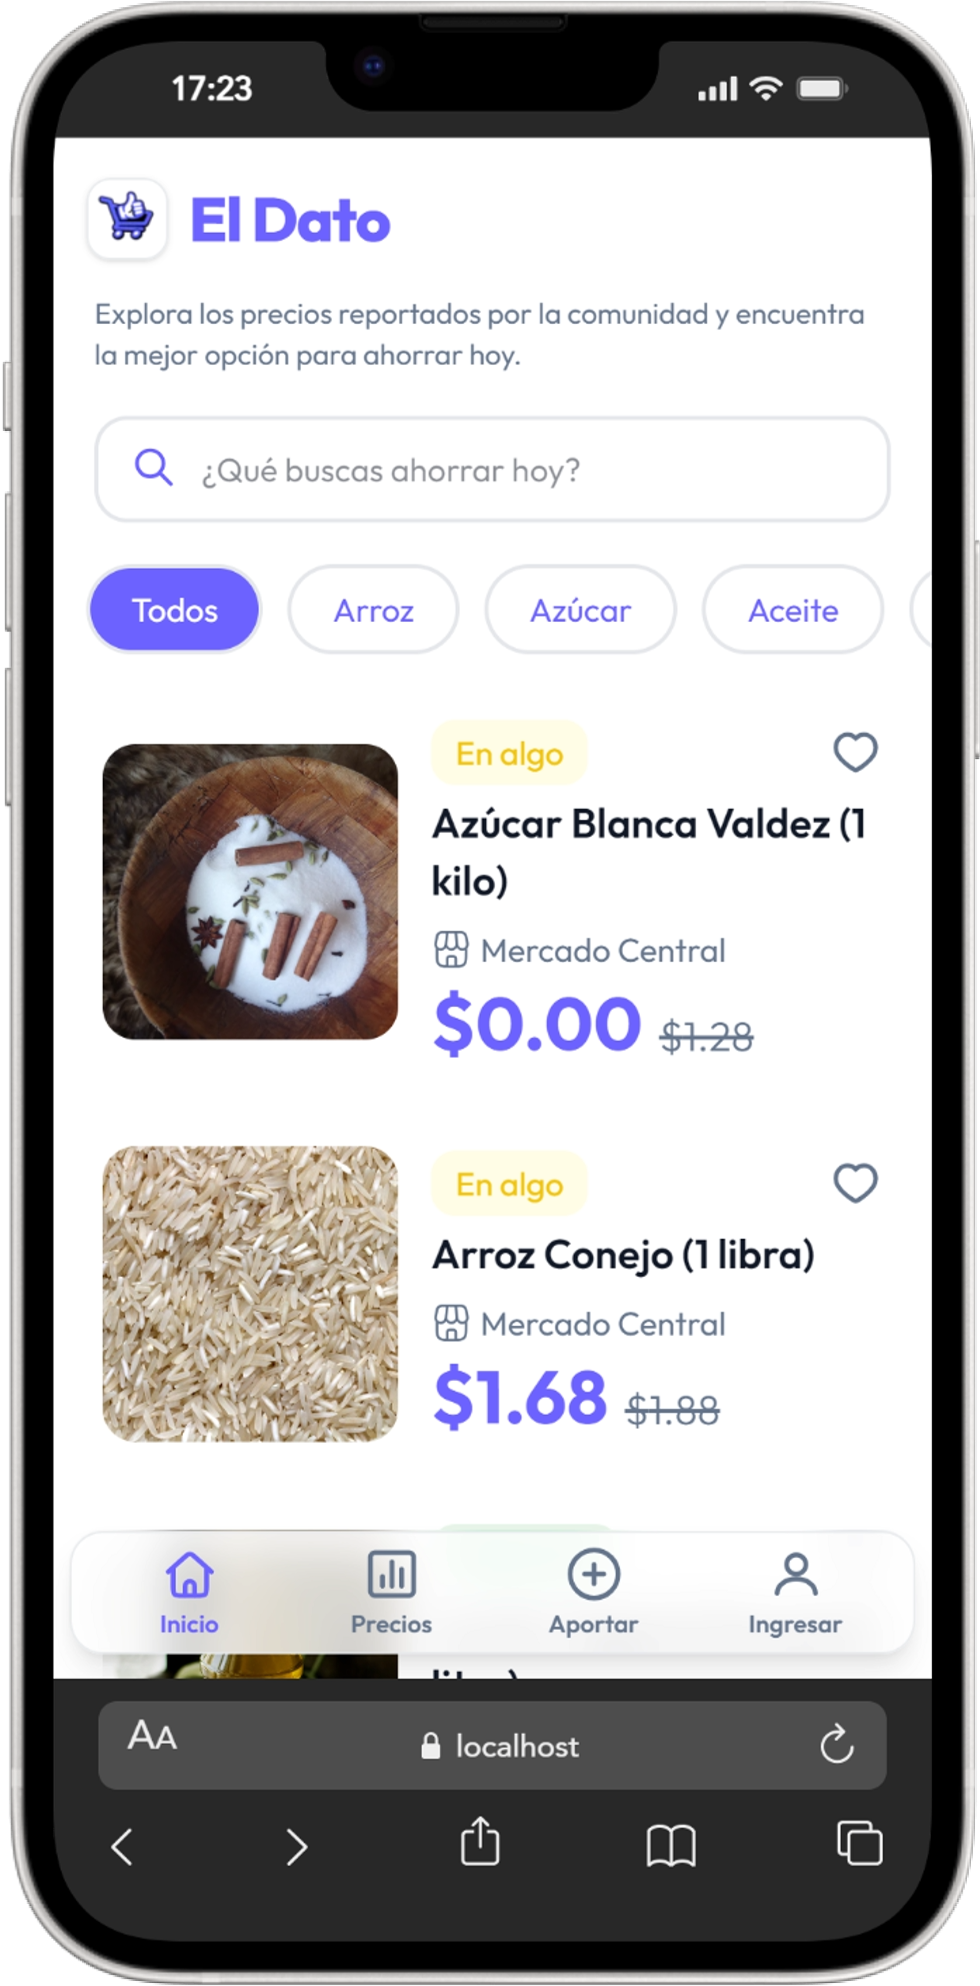
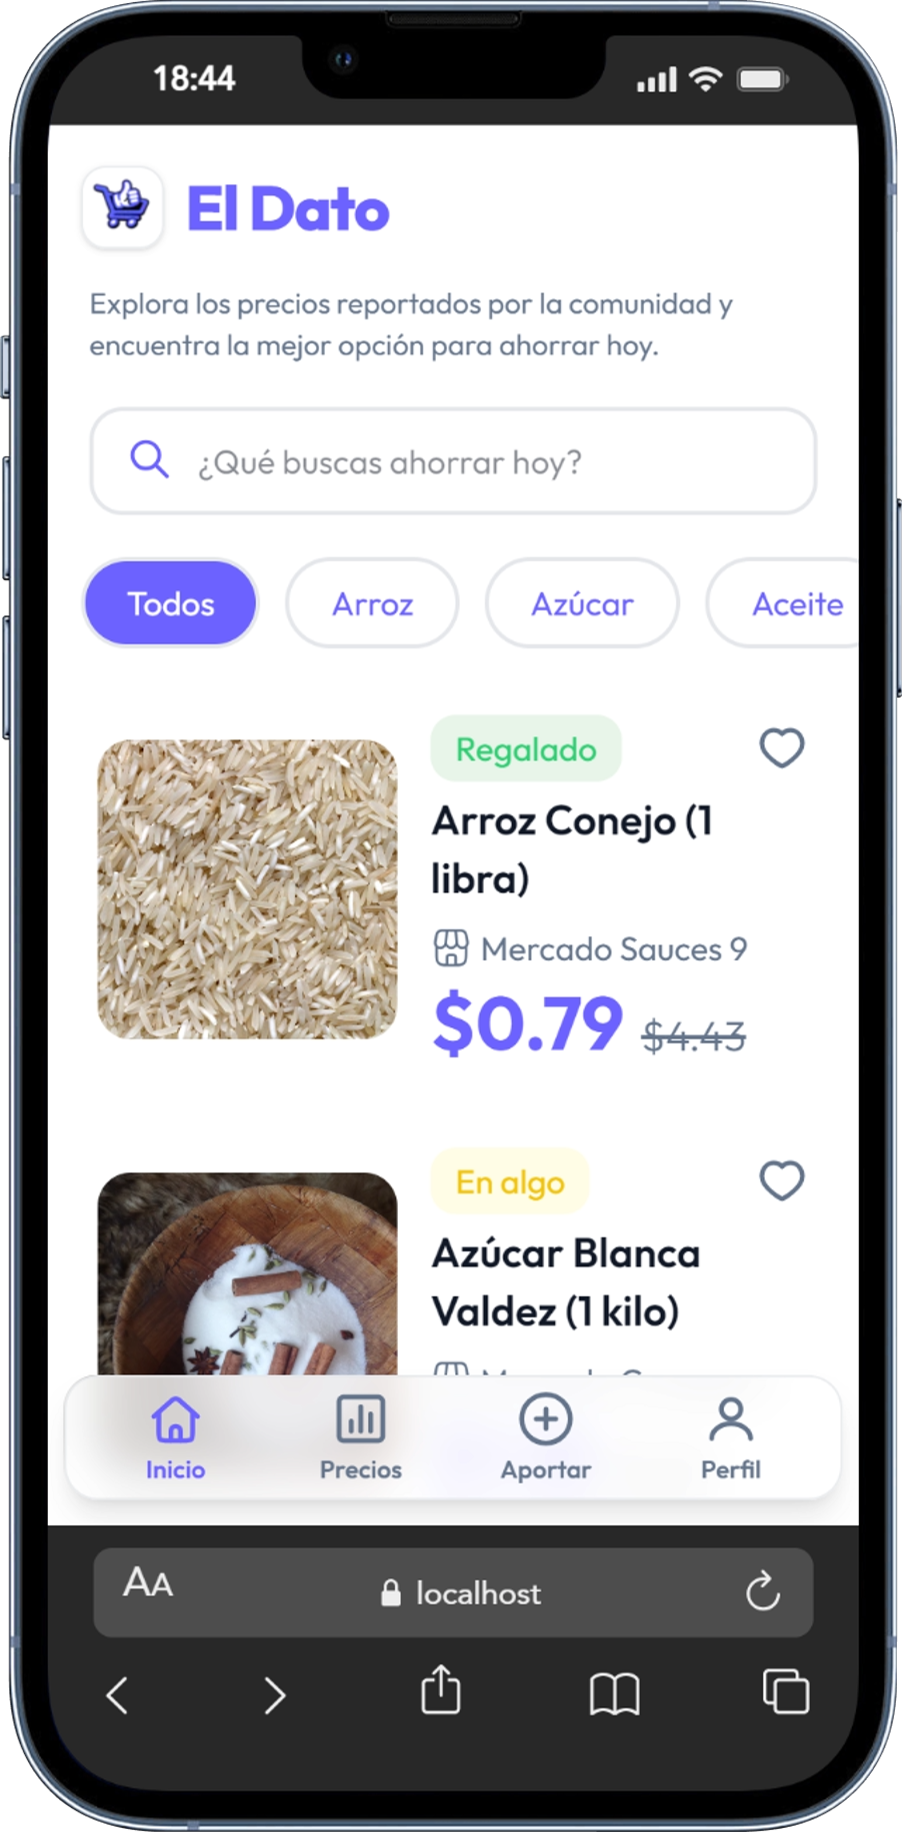
fix: corregir precios/descuentos en Home y editar imagenes de README

diff --git a/src/pages/Home.jsx b/src/pages/Home.jsx
@@ -7,6 +7,7 @@ import EmptyState from "../components/EmptyState";
 import {
     addFavorite,
     getFavoriteProductIds,
+    getPriceStatsByProductIds,
     getRecentReports,
     removeFavorite,
 } from "../services/api";
@@ -90,6 +91,7 @@ export default function Home() {
     const [hasMoreReports, setHasMoreReports] = useState(false);
     const [isLoadingMoreReports, setIsLoadingMoreReports] = useState(false);
     const [reportsPageSize, setReportsPageSize] = useState(getHomePageSize);
+    const [priceStatsByProduct, setPriceStatsByProduct] = useState({});
     const backendSentinelRef = useRef(null);
 
     const userCity = normalizeCityCode(profile?.city);
@@ -117,13 +119,25 @@ export default function Home() {
                 withMeta: true,
             });
 
+            const productIds = Array.from(
+                new Set(
+                    (result.data || [])
+                        .map((report) => report?.products?.id)
+                        .filter((id) => Number.isFinite(Number(id))),
+                ),
+            );
+
+            const stats = await getPriceStatsByProductIds(userCity, productIds);
+
             setReports(result.data || []);
+            setPriceStatsByProduct(stats);
             setNextOffset(result.nextOffset || 0);
             setHasMoreReports(Boolean(result.hasMore));
         } catch (error) {
             console.error("Error cargando reportes:", error);
             toast.error("No se pudieron cargar los reportes en Inicio.");
             setReports([]);
+            setPriceStatsByProduct({});
             setNextOffset(0);
             setHasMoreReports(false);
         } finally {
@@ -260,9 +274,18 @@ export default function Home() {
             .map((item) => ({
                 ...item,
                 marketNames: Array.from(item.marketNames),
+                cheapestPrice:
+                    priceStatsByProduct[item.idProd]?.minPrice ??
+                    item.cheapestPrice,
+                expensivePrice:
+                    priceStatsByProduct[item.idProd]?.maxPrice ??
+                    item.expensivePrice,
+                cheapestMarket:
+                    priceStatsByProduct[item.idProd]?.minMarket ||
+                    item.cheapestMarket,
             }))
             .sort((a, b) => new Date(b.latestAt) - new Date(a.latestAt));
-    }, [reports]);
+    }, [priceStatsByProduct, reports]);
 
     const filteredCards = useMemo(() => {
         return productCards.filter((card) => {

diff --git a/src/services/api.js b/src/services/api.js
@@ -244,6 +244,67 @@ export async function getRecentReports(city, options = {}) {
     return reports;
 }
 
+export async function getPriceStatsByProductIds(city, productIds = []) {
+    const normalizedIds = (productIds || [])
+        .map((id) => Number(id))
+        .filter((id) => Number.isFinite(id));
+
+    if (normalizedIds.length === 0) {
+        return {};
+    }
+
+    const cityCode = normalizeCityCode(city);
+    const cityAliases = getCityAliases(cityCode);
+
+    const { data, error } = await withTimeout(
+        supabase
+            .from("price_reports")
+            .select(
+                `
+                product_id, price,
+                markets!inner(name, city)
+            `,
+            )
+            .in("product_id", normalizedIds)
+            .in("markets.city", cityAliases),
+        REQUEST_TIMEOUT_MS,
+        "estadísticas de precio por producto",
+    );
+
+    if (error) throw error;
+
+    const stats = {};
+
+    (data || []).forEach((row) => {
+        const productId = Number(row.product_id);
+        const parsedPrice = Number(row.price);
+
+        if (!Number.isFinite(productId) || !Number.isFinite(parsedPrice)) {
+            return;
+        }
+
+        if (!stats[productId]) {
+            stats[productId] = {
+                minPrice: parsedPrice,
+                maxPrice: parsedPrice,
+                minMarket: row.markets?.name || null,
+            };
+            return;
+        }
+
+        if (parsedPrice < stats[productId].minPrice) {
+            stats[productId].minPrice = parsedPrice;
+            stats[productId].minMarket = row.markets?.name || null;
+        }
+
+        if (parsedPrice > stats[productId].maxPrice) {
+            stats[productId].maxPrice = parsedPrice;
+        }
+    });
+
+    return stats;
+}
+
 export async function submitReport(reportData) {
     const { data, error } = await supabase
         .from("price_reports")

diff --git a/src/components/ProductCard.jsx b/src/components/ProductCard.jsx
@@ -18,10 +18,19 @@ export default function ProductCard({
         Carisimo: "bg-redb text-redt",
     };
 
-    const parsedCurrent = Number(precioActual);
-    const parsedPrevious = Number(precioAnterior);
-    const hasCurrent = Number.isFinite(parsedCurrent);
-    const hasPrevious = Number.isFinite(parsedPrevious);
+    const parsePrice = (value) => {
+        if (value === null || value === undefined || value === "") {
+            return null;
+        }
+
+        const parsed = Number(value);
+        return Number.isFinite(parsed) ? parsed : null;
+    };
+
+    const parsedCurrent = parsePrice(precioActual);
+    const parsedPrevious = parsePrice(precioAnterior);
+    const hasCurrent = parsedCurrent !== null;
+    const hasPrevious = parsedPrevious !== null;
 
     const minPrice = hasCurrent
         ? hasPrevious
